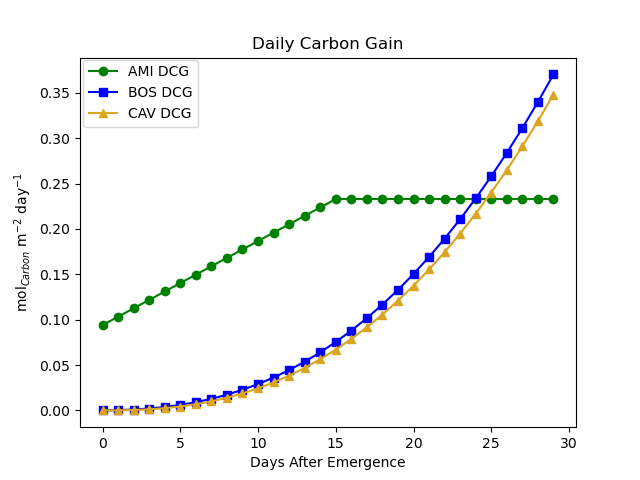
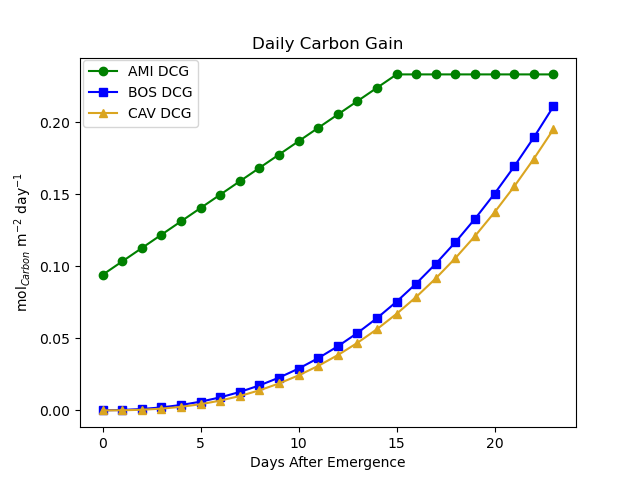
Restructured the comparisons

diff --git a/ABC Comp file.py b/ABC Comp file.py
@@ -2,9 +2,9 @@ import pandas as pd
 import matplotlib.pyplot as plt
 import numpy as np
 
-##################################################
-################## MODEL INPUTS ##################
-##################################################
+#################################################
+################# MODEL INPUTS ##################
+#################################################
 PPFD = 314.54       # found at Amitrano 2020 table 2 but used decimal value in GN excel
 CO2 = 370           # value used in Amitranos excel
 H = 12              # Amitrano 2020 table 2
@@ -35,18 +35,18 @@ p_W = 998.23        # density of water at 20 C, ewert table 4-110
 n = 2.5             # Ewert table 4-97 crop specific
 P_ATM = 101         # atmospheric pressure Number from Amitrano excel
 a = 0.0036          # boscheri table 4 similar to others but in 'a'
-b = 3600            # boscheri table 4
+b = 3600            # boscheri table 4 ????????????
 
 A_max = 0.93        # maximum fraction of PPF Absorbtion ewert pg 180
 CQY_min = 0         # N/A minimum canopy quantum yield ewert table 4-99
 CUE_max = 0.625     # maximum carbon use efficiency ewert table 4-99
 CUE_min = 0         # N/A minimum carbon use efficiency ewert table 4-99
 
-#################################################
-############ SUPPLEMENTAL EQUATIONS #############
-#################################################
+################################################
+########### SUPPLEMENTAL EQUATIONS #############
+################################################
 """ Multipolynomial Regression Fits Ewert Table 4-100 """
-# used in the calculation of A_max and CQY_max
+########### used in the calculation of A_max and CQY_max
 
 c1 = (1/PPFD)*(1/CO2)
 c2 = (1/PPFD)
@@ -76,7 +76,7 @@ c25 = (PPFD**3)*(CO2**3)
 
 
 """ Canopy Closure t_A """
-# t_A coefficients (tac) values originate from EWert table 4-115 
+############ t_A coefficients (tac) values originate from EWert table 4-115 
 tac1 = 0
 tac2 = 1.0289*(10**4)
 tac3 = -3.7018
@@ -103,7 +103,7 @@ tac23 = 0
 tac24 = 0
 tac25 = 0
 
-# each term in the t_A Ewert eq 4-30
+############# each term in the t_A Ewert eq 4-30
 t_A_1 = tac1*c1
 t_A_2 = tac2*c2
 t_A_3 = tac3*c3
@@ -130,7 +130,7 @@ t_A_23 = tac23*c23
 t_A_24 = tac24*c24
 t_A_25 = tac25*c25
 
-# the calculation of canopy closure ewert eq 4-30
+############# the calculation of canopy closure ewert eq 4-30
 t_A = (t_A_1 + t_A_2 + t_A_3 + t_A_4 + t_A_5 + 
        t_A_6 + t_A_7 + t_A_8 + t_A_9 + t_A_10 + 
        t_A_11 + t_A_12 + t_A_13 + t_A_14 + t_A_15 + 
@@ -138,7 +138,7 @@ t_A = (t_A_1 + t_A_2 + t_A_3 + t_A_4 + t_A_5 +
        t_A_21 + t_A_22 + t_A_23 + t_A_24 + t_A_25)
 
 """ Canopy Quantum Yield Equation """
-# CQY_max Coefficients ewert table 4-102
+############# CQY_max Coefficients ewert table 4-102
 CQY_m_c_1 = 0
 CQY_m_c_2 = 0
 CQY_m_c_3 = 0
@@ -165,7 +165,7 @@ CQY_m_c_23 = 0
 CQY_m_c_24 = 0
 CQY_m_c_25 = 0
 
-# CQY_max Terms ewert eq 4-22
+########## CQY_max Terms ewert eq 4-22
 CQY_m_t_1 = CQY_m_c_1*c1
 CQY_m_t_2 = CQY_m_c_2*c2
 CQY_m_t_3 = CQY_m_c_3*c3
@@ -192,7 +192,7 @@ CQY_m_t_23 = CQY_m_c_23*c23
 CQY_m_t_24 = CQY_m_c_24*c24
 CQY_m_t_25 = CQY_m_c_25*c25
 
-# CQY_max Calculation ewert eq 4-22
+########### CQY_max Calculation ewert eq 4-22
 CQY_max = (CQY_m_t_1 + CQY_m_t_2 + CQY_m_t_3 + CQY_m_t_4 + CQY_m_t_5 +
            CQY_m_t_6 + CQY_m_t_7 + CQY_m_t_8 + CQY_m_t_9 + CQY_m_t_10 + 
            CQY_m_t_11 + CQY_m_t_12 + CQY_m_t_13 + CQY_m_t_14 + CQY_m_t_15 + 
@@ -391,8 +391,8 @@ df_CAV_records.to_csv('C:/Users/donal/Documents/Github/Modified-Energy-Cascade/M
 print('Exported Cavazzoni Data')
 
 '''#############################################################################
-   ############################# BOSCHERI MODEL CODE ###########################
-   #############################################################################'''
+   ############################ BOSCHERI MODEL CODE ###########################
+   ############################################################################'''
 
 print('Beginning Boscheri Model')
 
@@ -467,7 +467,8 @@ while t < ts_to_harvest:                 # while time is less than harvest time
     P_NET = A*CQY*PPFD              # boscheri eq 13
     g_S = (1.717*T_LIGHT-19.96-10.54*VPD)*(P_NET/CO2) # boscheri unlabeled equation
     g_C = (g_A*g_S)*(g_A+g_S)**(-1) # boscheri unlabeled equation
-    HTR = b*MW_W*g_C*(VPD/P_ATM)    # boscheir eq 10
+#   HTR = b*MW_W*g_C*(VPD/P_ATM)    # boscheir eq 10
+    HTR = 3600*H*(MW_W/p_W)*g_C*(VPD/P_ATM) # cavazzonis DTR equation
     HCO2C = HOP*MW_CO2*MW_O2**(-1)  # boscheri eq 14
     HCO2P = HOC*MW_CO2*MW_O2**(-1)  # boscheri eq 15 
     HNC = HCGR*DRY_FR*NC_FR         # boscheri eq unlabeled
@@ -490,6 +491,7 @@ while t < ts_to_harvest:                 # while time is less than harvest time
         'BOS_AVG_DWCGR': [HWCGR],
         'BOS_AVG_DOP': [HOP],
         'BOS_AVG_DOC': [HOC],
+        'BOS_AVG_VPD': [VPD],
         'BOS_AVG_DTR': [HTR],
         'BOS_AVG_DCO2C': [HCO2C],
         'BOS_AVG_DCO2P': [HCO2P],
@@ -514,6 +516,7 @@ while t < ts_to_harvest:                 # while time is less than harvest time
         'BOS_TOT_DWCGR': [HWCGR],
         'BOS_TOT_DOP': [HOP],
         'BOS_TOT_DOC': [HOC],
+        'BOS_TOT_VPD': [VPD],
         'BOS_TOT_DTR': [HTR],
         'BOS_TOT_DCO2C': [HCO2C],
         'BOS_TOT_DCO2P': [HCO2P],
@@ -532,30 +535,32 @@ df_day_AVG.to_csv('C:/Users/donal/Documents/Github/Modified-Energy-Cascade/BOS_O
 print('Exported Boscheri Data')
 
 '''#############################################################################
-   ############################# COMPARISON CODE ###############################
-   #############################################################################'''
+   ############################ COMPARISON CODE ###############################
+   ############################################################################'''
 
 print('Beginning Comparisons')
-##################################################
-################ Pull in the data ################
-##################################################
+#################################################
+############### Pull in the data ################
+#################################################
 
 ami =     pd.read_csv("C:/Users/donal/Documents/Github/Modified-Energy-Cascade/MEC_AMI_OUT_comp.csv")
 bos_tot = pd.read_csv("C:/Users/donal/Documents/Github/Modified-Energy-Cascade/BOS_OUT_TOT_comp.csv")
 bos_avg = pd.read_csv("C:/Users/donal/Documents/Github/Modified-Energy-Cascade/BOS_OUT_AVG_comp.csv")
 cav =     pd.read_csv("C:/Users/donal/Documents/Github/Modified-Energy-Cascade/MEC_CAV_OUT_comp.csv")
+obs =     pd.read_csv("C:/Users/donal/Documents/Github/Modified-Energy-Cascade/MEC_GN_OBSV_comp.csv")
+
 print('Data Imported')
-bigdf =   pd.merge(pd.merge(pd.merge(bos_avg, bos_tot, on='Day'), ami, on='Day'), cav, on='Day')
+bigdf =   pd.merge(pd.merge(pd.merge(pd.merge(bos_avg, bos_tot, on='Day'), ami, on='Day'), cav, on='Day'), obs, on='Day')
 bigdf.to_csv('C:/Users/donal/Documents/Github/Modified-Energy-Cascade/ABC_comp.csv') # exports final data frame to a CSV
-# print(bigdf)
+print(bigdf)
 print('Dataframes Merged')
 
 ''' AMI= green colors or 'o'
      BOS= blue colors or 's'
      CAV= yelllow colors or '^'  '''
-# ##################################################
-# ###############   Start Charting  ################
-# ##################################################
+##################################################
+###############   Start Charting  ################
+##################################################
 
 ####### Alpha and Beta Comparison ##############
 fig, ax = plt.subplots()
@@ -592,7 +597,7 @@ plt.title('A CUE CQY Comparison')
 plt.savefig('C:/Users/donal/Documents/GitHub/Modified-Energy-Cascade/Comparison Charts/A_CUE_CQY_Comparison.png', bbox_inches='tight') #there are many options for savefig
 plt.show()
 
-########## Conductances #########################
+################ Conductances #########################
 fig, ax = plt.subplots()
 ax.plot(bigdf['Day'], bigdf['AMI_g_S'],     marker='o', color='green',      label='AMI g$_S$')
 ax.plot(bigdf['Day'], bigdf['AMI_g_C'],     marker='o', color='lightgreen', label='AMI g$_C$')
@@ -600,36 +605,39 @@ ax.plot(bigdf['Day'], bigdf['BOS_AVG_g_S'], marker='s', color='blue',       labe
 ax.plot(bigdf['Day'], bigdf['BOS_AVG_g_C'], marker='s', color='lightblue',  label='BOS g$_C$')
 ax.plot(bigdf['Day'], bigdf['CAV_g_S'],     marker='^', color='goldenrod',  label='CAV g$_S$')
 ax.plot(bigdf['Day'], bigdf['CAV_g_C'],     marker='^', color='gold',       label='CAV g$_C$')
+ax.plot(bigdf['Day'], bigdf['OBS_g_S'],     marker='.', color='black',       label='Observed g_S')
 ax.set_ylabel('mol$_{water}$ m$^{-2}$ second $^{-1}$')
 ax.set_xlabel('Days After Emergence')
-plt.figlegend(bbox_to_anchor=(-0.185, 0.39, 0.5, 0.5))
+plt.figlegend(bbox_to_anchor=(-0.13, 0.39, 0.5, 0.5))
 plt.title('Conductances')
 plt.savefig('C:/Users/donal/Documents/GitHub/Modified-Energy-Cascade/Comparison Charts/Conductances_Comparison.png') #there are many options for savefig
 plt.show()
 
-################### Gas Exchanges ######################
+################## Gas Exchanges ######################
 fig, ax= plt.subplots()
-ax.plot(bigdf['Day'], bigdf['AMI_DTR'],     marker='o', color='green',      label='AMI DTR')
-ax.plot(bigdf['Day'], bigdf['BOS_TOT_DTR'], marker='s', color='blue',       label='BOS DTR')
-ax.plot(bigdf['Day'], bigdf['CAV_DTR'],     marker='^', color='goldenrod',  label='CAV DTR')
+ax.plot(bigdf['Day'], bigdf['AMI_DTR'],     marker='o', color='darkgreen',   label='AMI DTR')
+ax.plot(bigdf['Day'], bigdf['BOS_AVG_DTR'], marker='s', color='green',       label='BOS DTR')
+ax.plot(bigdf['Day'], bigdf['CAV_DTR'],     marker='^', color='lightgreen',  label='CAV DTR')
+ax.plot(bigdf['Day'], bigdf['OBS_DTR'],     marker='.', color='black',  label='Observed')
 ax.set_ylabel('L$_{water}$ m$^{-2}$ day$^{-1}$')
 ax.set_xlabel('Days After Emergence')
-plt.figlegend(bbox_to_anchor=(-0.185, 0.39, 0.5, 0.5))
+plt.figlegend(bbox_to_anchor=(-0.175, 0.39, 0.5, 0.5))
 plt.title('Gas Exchanges')
 plt.savefig('C:/Users/donal/Documents/GitHub/Modified-Energy-Cascade/Comparison Charts/Gas_Exchange_Comparison.png') #there are many options for savefig
 plt.show()
 
 
-################## Photosynthesis #####################
+################ Photosynthesis #####################
 fig, ax = plt.subplots()
 ax.plot(bigdf['Day'], bigdf['AMI_P_GROSS'],     marker='o', color='green',      label='AMI P$_{GROSS}$')
 ax.plot(bigdf['Day'], bigdf['AMI_P_NET'],       marker='o', color='lightgreen', label='AMI P$_{NET}$')
 ax.plot(bigdf['Day'], bigdf['BOS_AVG_P_NET'],   marker='s', color='lightblue',  label='BOS P$_{NET}$')
 ax.plot(bigdf['Day'], bigdf['CAV_P_GROSS'],     marker='^', color='goldenrod',  label='CAV P$_{GROSS}$')
 ax.plot(bigdf['Day'], bigdf['CAV_P_NET'],       marker='^', color='gold',       label='CAV P$_{NET}$')
+ax.plot(bigdf['Day'], bigdf['OBS_P_N'],       marker='.', color='black',        label='Observed P$_{NET}$')
 ax.set_ylabel('μmol$_{Carbon}$ m$^{-2}$ second$^{-1}$')
 ax.set_xlabel('Days After Emergence')
-plt.figlegend(bbox_to_anchor=(-0.16, 0.39, 0.5, 0.5))
+plt.figlegend(bbox_to_anchor=(-0.125, 0.39, 0.5, 0.5))
 plt.title('Photosynthesis')
 plt.savefig('C:/Users/donal/Documents/GitHub/Modified-Energy-Cascade/Comparison Charts/Photosynthesis_Comparison.png') #there are many options for savefig
 plt.show()
@@ -646,11 +654,12 @@ plt.title('Daily Carbon Gain')
 plt.savefig('C:/Users/donal/Documents/GitHub/Modified-Energy-Cascade/Comparison Charts/DCG_Comparison.png') #there are many options for savefig
 plt.show()
 
-##################### Crop Productivity ###################################
+#################### Crop Productivity ###################################
 fig, ax = plt.subplots()
 ax.plot(bigdf['Day'], bigdf['AMI_TEB'],      marker='o', color='darkgreen',  label='AMI TEB')
 ax.plot(bigdf['Day'], bigdf['CAV_TEB'],      marker='^', color='green',      label='CAV TEB')
 ax.plot(bigdf['Day'], bigdf['CAV_TCB'],      marker='^', color='lightgreen', label='CAV TCB')
+ax.plot(bigdf['Day'], bigdf['OBS_TEB'],      marker='.', color='black', label='Observed TEB')
 ax.set_ylabel('grams m$^{-2}$', color='green')
 ax.tick_params(axis='y', labelcolor='green')
 ax2 = ax.twinx()
@@ -660,7 +669,7 @@ ax2.plot(bigdf['Day'], bigdf['CAV_CGR'],      marker='^', color='indianred', lab
 ax2.set_ylabel('grams m$^{-2}$ day$^{-1}$', color='darkred')
 ax2.tick_params(axis='y',labelcolor='darkred')
 ax.set_xlabel('Days After Emergence')
-plt.figlegend(bbox_to_anchor=(-0.18, 0.39, 0.5, 0.5))
+plt.figlegend(bbox_to_anchor=(-0.13, 0.39, 0.5, 0.5))
 plt.title('Crop Productivity')
 plt.savefig('C:/Users/donal/Documents/GitHub/Modified-Energy-Cascade/Comparison Charts/Crop_Productivity_Comparison.png') #there are many options for savefig
 plt.show()

diff --git a/Boscheri/Bocheri MEC.py b/Boscheri/Bocheri MEC.py
@@ -281,7 +281,8 @@ while t < ts_to_harvest:                 # while time is less than harvest time
     P_NET = A*CQY*PPFD              # boscheri eq 13
     g_S = (1.717*T_LIGHT-19.96-10.54*VPD)*(P_NET/CO2) # boscheri unlabeled equation
     g_C = (g_A*g_S)*(g_A+g_S)**(-1) # boscheri unlabeled equation
-    HTR = b*MW_W*g_C*(VPD/P_ATM)    # boscheir eq 10
+    # HTR = b*MW_W*g_C*(VPD/P_ATM)    # boscheir eq 10
+    HTR = 3600*H*(MW_W/p_W)*g_C*(VPD/P_ATM) # cavazzonis DTR equation
     HCO2C = HOP*MW_CO2*MW_O2**(-1)  # boscheri eq 14
     HCO2P = HOC*MW_CO2*MW_O2**(-1)  # boscheri eq 15 
     HNC = HCGR*DRY_FR*NC_FR         # boscheri eq unlabeled
@@ -300,6 +301,10 @@ while t < ts_to_harvest:                 # while time is less than harvest time
         'HWCGR': [HWCGR],
         'HOP': [HOP],
         'HOC': [HOC],
+        'g_S': [g_S],
+        'g_C': [g_C],
+        'VP_SAT': [VP_SAT],
+        'VPD': [VPD],
         'HTR': [HTR],
         'HCO2C': [HCO2C],
         'HCO2P': [HCO2P],
@@ -318,7 +323,7 @@ while t < ts_to_harvest:                 # while time is less than harvest time
 # print(df_day_avg)
 # df_records.to_csv('C:/Users/donal/Documents/Github/Modified-Energy-Cascade/Boscheri/BOS_CAV_OUT.csv') # exports final data frame to a CSV
 
-
+print(df_records[['Timestep','HTR','VPD', 'g_C', 'g_S']])
 ############################################################
 ##################### VISUALIZATIONS #######################
 ############################################################
